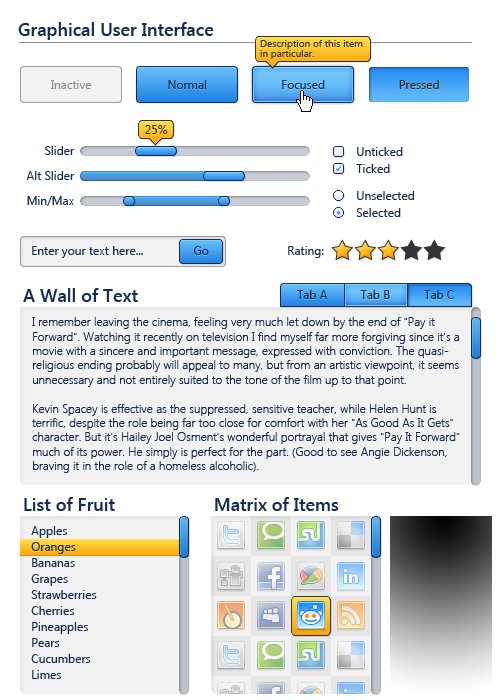
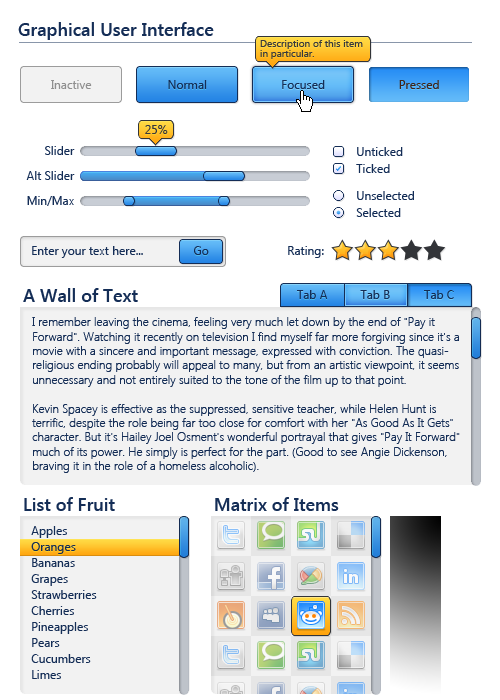
Set up a state for testing framebuffers. (edit)

Changed region(s): [[0.87, 0.72, 0.99, 0.96]]

diff --git a/Amigo/TestState.cpp b/Amigo/TestState.cpp
@@ -36,8 +36,14 @@ void TestState::Update(GLdouble time)
 	// Enable the rendertarget
 	renderTargetTest->Begin();
 
+	// Set blend mode
+	glBlendFunc(GL_SRC_ALPHA, GL_ONE_MINUS_SRC_ALPHA);
+
 	// Render test-sprite to rendertarget
 	sprTest.Draw(0, 0);
+
+	// Reset blend mode
+	glBlendFunc(GL_SRC_ALPHA, GL_ONE_MINUS_SRC_ALPHA);
 
 	// Disable the rendertarget
 	renderTargetTest->End();
